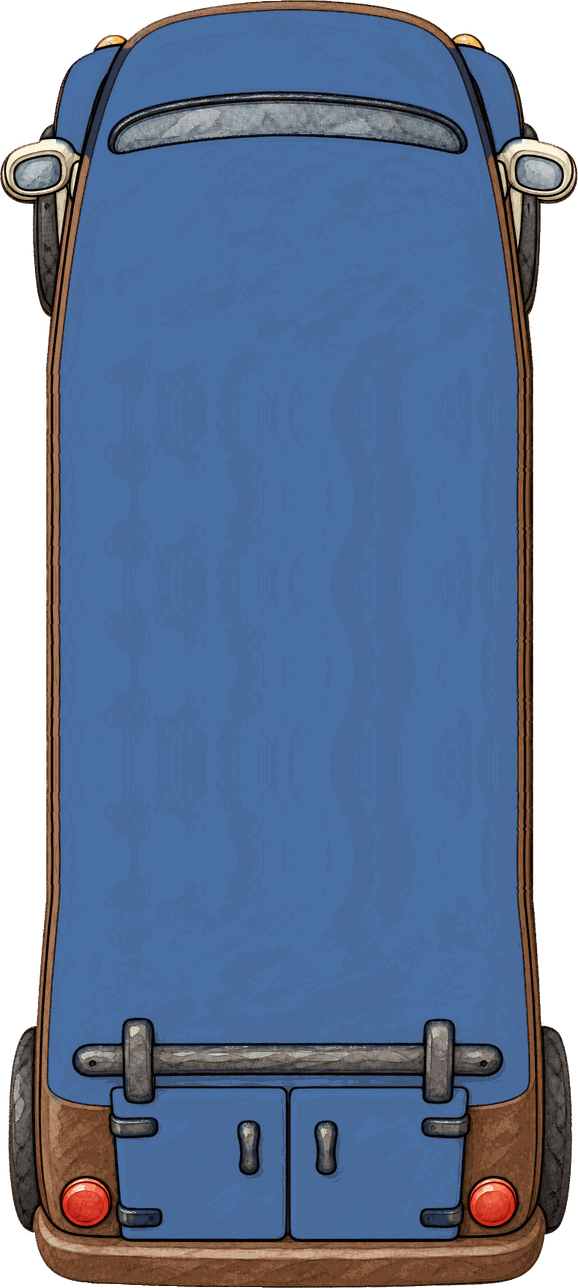
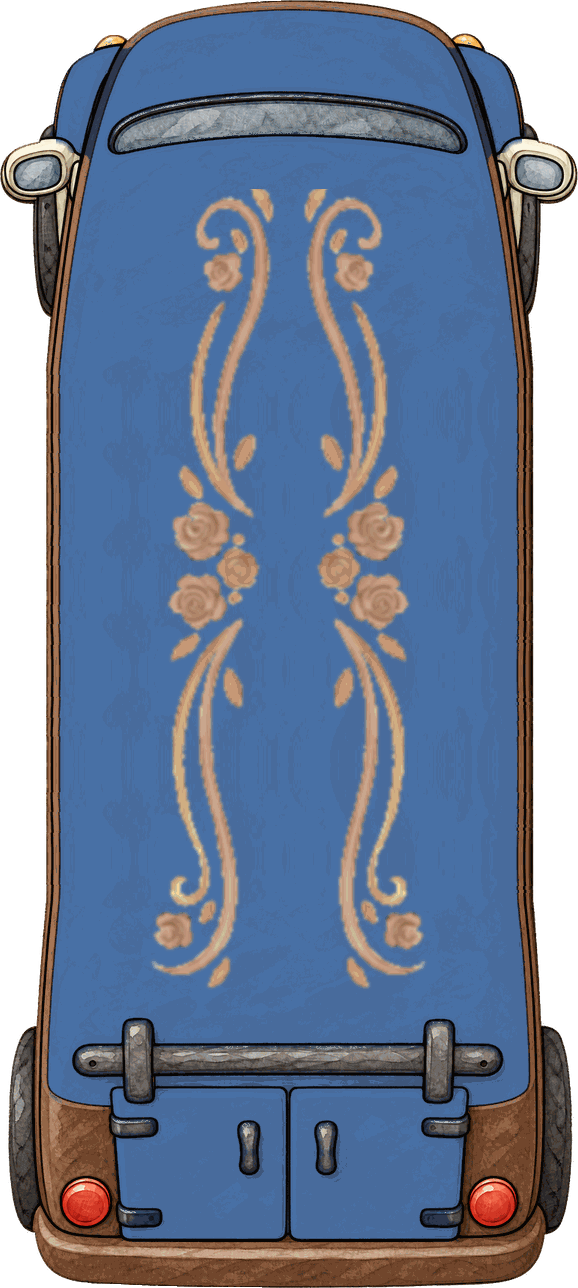
feat(art): the roof motifs are installed, Henry's garland, Bea's mirrored scrollwork and Spark's flash
Marcus chose from the twelve candidates: Henry A, Bea B, Spark A. Those were
built on sprites that have since been replaced twice (the redrawn fronts and
the glass canon), and decorate-roof.py places everything as a share of the roof
it finds, so it was run again on the six files as they now stand. The roofs are
longer: Bea's front is 739 rows where the old run saw 557, Spark's 652 where it
saw 431. The exclusion zones are measured from each file on every run, so the
new glass is excluded, and nothing is cached.

The files are the tool's own output (256-colour palette, byte-identical on
re-run) copied over the installed ones. They are not run through
install-vehicles.py, whose 0.88 taper would skew them a second time.

  henry   garland, pink flower, leaves, sage, leaves, pink, pink at the nose:
          3 flowers and 2 sprigs front and rear (roof 692 / 764 rows)
  bea     the cargo scroll and its mirror, symmetrical about the centre line:
          one pair front and rear (roof 739 / 900 rows)
  spark   one flash, tip at the nose: one front and rear (roof 652 / 442 rows)

Gates, every file: silhouette IoU 1.000000 against the files it replaces, alpha
byte-identical (0 px differ), canvas unchanged (561, 579, 640 wide and their
rears), 256 colours. Livery bands stay within 9.7 of maroon, slate blue and
leaf green, no band moving more than 0.6 (Spark's rear is 9.7 before and
after, as it was). Henry's rear-door paw-heart box differs by 0 pixels and no
[…]

Changed region(s): [[0.2491, 0.1242, 0.4983, 0.7764], [0.5294, 0.1242, 0.7474, 0.7764]]

diff --git a/docs/fleet-canon.md b/docs/fleet-canon.md
@@ -138,6 +138,50 @@ was, and Spark's rear window is untouched.
   read as bland from above, which is the view a child spends most time looking
   at. The motif is extracted from the master portrait's own artwork rather than
   redrawn, so the roof carries literally the same marks as the flank.
+  **Installed 2026-10-11** with `tools/decorate-roof.py`, run on the six files as
+  they stand after the fronts and the glass were finished (`36262bb`, `50d138e`),
+  because its placement is a share of the roof it finds and the roofs had grown.
+  Marcus chose one option per character from twelve candidates:
+
+  | Character | Option | On the roof | Front / rear |
+  |---|---|---|---|
+  | Henry | **A, garland** | pink flower, leaves, sage flower, leaves, pink flower down the centre line, pink nearest the nose | roof 692 / 764 rows; 3 flowers and 2 leaf sprigs at both ends |
+  | Bea | **B, scrollwork twice** | the cargo-panel scroll, then its mirror image, roses outward and flourishes toward the centre, symmetrical about the roof's centre line | roof 739 / 900 rows; one pair at both ends (665 x 123 px each scroll / 810 x 132) |
+  | Spark | **A, one flash** | the flank's cream flash down the roof, tip at the nose | roof 652 / 442 rows; one flash at both ends (561 x 201 px / 380 x 136) |
+  | Big Tilly | none | her bed is open and busy from above | |
+  | Trikey | none | she has no roof | |
+
+  Henry wears the garland and not option B, the oak inlay. The garland is the
+  flank's own pink and sage flowers and leaves lifted off the panel. The inlay is
+  a piece of the oak panel, bookmatched about its open end so it has a border on
+  every side, and that mirror is the one thing in it that is not on the flank. A
+  future session should not swap it in. Bea's scrollwork is the faintest of the
+  three at 46px, and Marcus accepted that: *"delicate is her character"*. Her
+  whole livery is fine gold scrollwork and roses, so thickening it would make her
+  a different vehicle. Do not make it bolder.
+
+  Front and rear carry one treatment: the rear sprite is the front's roof turned
+  half way round, so the bolt's tip and Henry's nearest pink flower are at the
+  nose in both, and Bea's pair is symmetrical in both. The repeat counts agree
+  (above). Only size differs, because every size is a share of the roof's own
+  length and the two views show different lengths of it. Spark's front has its
+  rear window painted out (section 3), so its roof runs on to the tail, 652 rows;
+  his rear's roof stops at the glass, 442 rows. His rear flash is therefore 0.68
+  of the front's in length and thickness, and limited by length because that roof
+  is wider (0.91) than it is long. If the bolt is ever to match across views, cap
+  the front's at the rear's size rather than stretching the rear's.
+
+  The six files are 256-colour palette PNGs: the tool merges near-duplicate roof
+  shades to make room for the motif's colours, so alpha is byte-identical, the
+  canvas is unchanged and the colour outside the motif moves by at most 32 of 255,
+  on 11 to 1,236 pixels per file (Henry's front is the 1,236; 55 of them in
+  Henry's rear-door glass, at most 17). Henry's rear-door paw-heart is the pixels it was, and no paw-coloured
+  pixel appears on any roof. **Re-run the tool, never install these through
+  `install-vehicles.py`**: its 0.88 taper would skew them a second time. If a
+  roof is redrawn again the motifs must be re-placed, and the tool does it from
+  the file it is given:
+  `python3 tools/decorate-roof.py <installed file> --design <A|B> --out <path> --check`
+  with henry A, bea B, spark A.
 
 ## 6. Open
 
@@ -148,11 +192,6 @@ was, and Spark's rear window is untouched.
   738x1849, L/W 2.505, against the rear's 2.516, so the two agree. 1.79 is not
   reached and cannot be: it leaves 161 rows below the bed, less than her
   windscreen, and buys a bed of about 1:1, a 2x2 load.
-- **The roof motifs are still to be applied.** `tools/decorate-roof.py` must be
-  re-run once Marcus picks his options, on the new fronts and on the rears as
-  they are now: the new roofs are longer (Bea's front 739 rows where the hatch
-  line cut it to 557, Spark's 652 where the sunroof cut it to 431), so the
-  motifs it placed before would be the wrong size.
 - **Trikey's two top-downs** are still cobalt clay with a terracotta cargo box
   against a lilac portrait, and are a redraw rather than a recolour.
 - **Thirty-one traffic sprites are still claymation** — both ambulances, the
